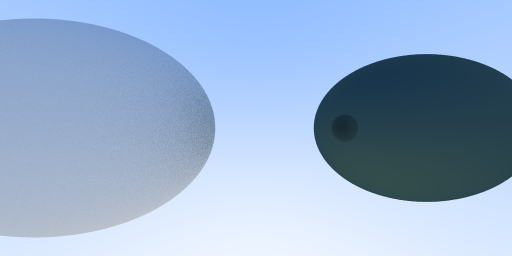
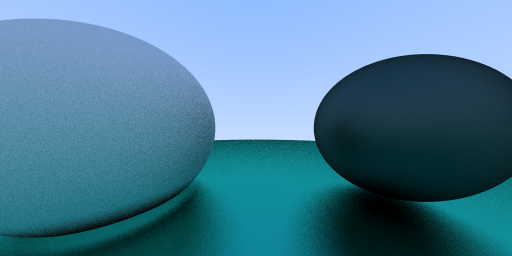
Added fuzziness factor to metal materials

diff --git a/src/material.cpp b/src/material.cpp
@@ -26,7 +26,13 @@ bool lambertian::scatter(const ray& r_in, const hit_record& rec, vec3& atten, ra
 }
 
 
-metal::metal(const vec3& a) : albedo(a) {} 
+metal::metal(const vec3& a, float f) : albedo(a)
+{
+    if(f < 1)
+        this->fuzz = f;
+    else
+        this->fuzz = 1.0f;
+}
 
 /*
  * metal::scatter()
@@ -36,7 +42,7 @@ bool metal::scatter(const ray& r_in, const hit_record& rec, vec3& atten, ray& sc
     vec3 reflected;
 
     reflected = reflect(unit_vector(r_in.direction()), rec.normal);
-    scattered = ray(rec.p, reflected);
+    scattered = ray(rec.p, reflected + this->fuzz * random_in_unit_sphere());
     atten = this->albedo;
 
     return (dot(scattered.direction(), rec.normal) > 0) ? true : false;

diff --git a/tools/render_ppm.cpp b/tools/render_ppm.cpp
@@ -41,8 +41,8 @@ int main(void)
     metal* m2;
     lambertian* l1;
     lambertian* l2;
-    m1 = new metal(vec3(0.2, 0.3, 0.3));
-    m2 = new metal(vec3(0.1, 0.2, 0.2));
+    m1 = new metal(vec3(0.2, 0.3, 0.3), 0.7);
+    m2 = new metal(vec3(0.1, 0.7, 0.6), 0.4);
     l1 = new lambertian(vec3(0.6, 0.6, 0.1));
     l2 = new lambertian(vec3(0.8, 0.8, 0.8));
 
@@ -56,7 +56,7 @@ int main(void)
     list[3] = new sphere(vec3(0, -100.5, -1), 100, m2);
     
     // generate our world of hittable things
-    world   = new hittable_list(list, 2);
+    world   = new hittable_list(list, 4);
 
     std::cout << "P3\n" << nx << " " << ny << "\n255\n";
 

diff --git a/src/material.hpp b/src/material.hpp
@@ -47,9 +47,10 @@ class metal : public material
 {
     public:
         vec3 albedo;
+        float fuzz;
 
     public:
-        metal(const vec3& a);
+        metal(const vec3& a, float f);
         virtual bool scatter(const ray& r_in, const hit_record& rec, vec3& atten, ray& scattered) const;
 };
 

diff --git a/test/test_sphere.cpp b/test/test_sphere.cpp
@@ -34,7 +34,7 @@ TEST_F(TestSphere, test_sphere_init)
     float r = 2.1;
 
     vec3 metal_albedo(0.8, 0.2, 0.3);
-    mat = new metal(metal_albedo);
+    mat = new metal(metal_albedo, 0.5);
     sphere_obj = new sphere(center, r, mat);
 
     EXPECT_TRUE(sphere_obj->mat);        
